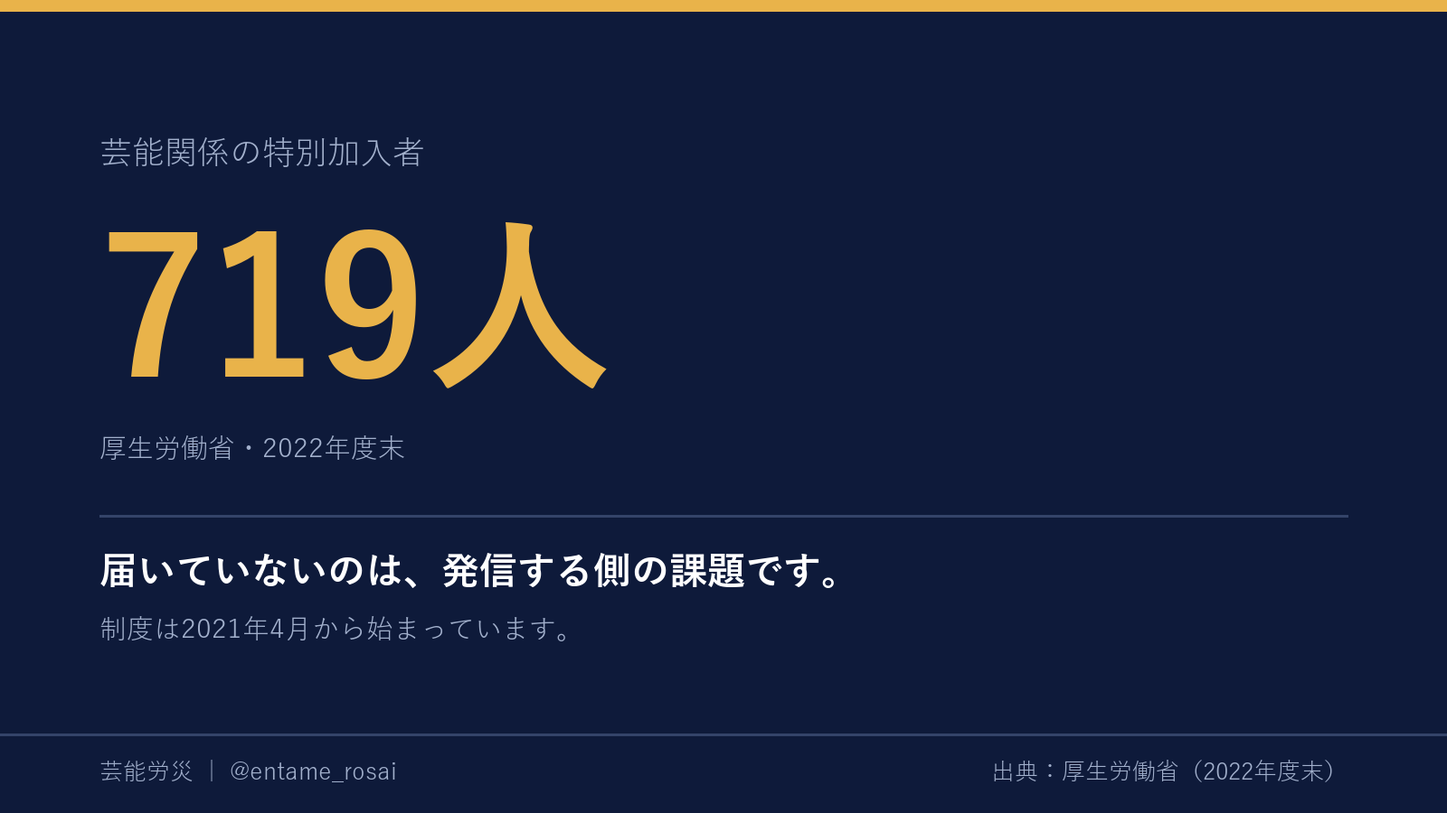
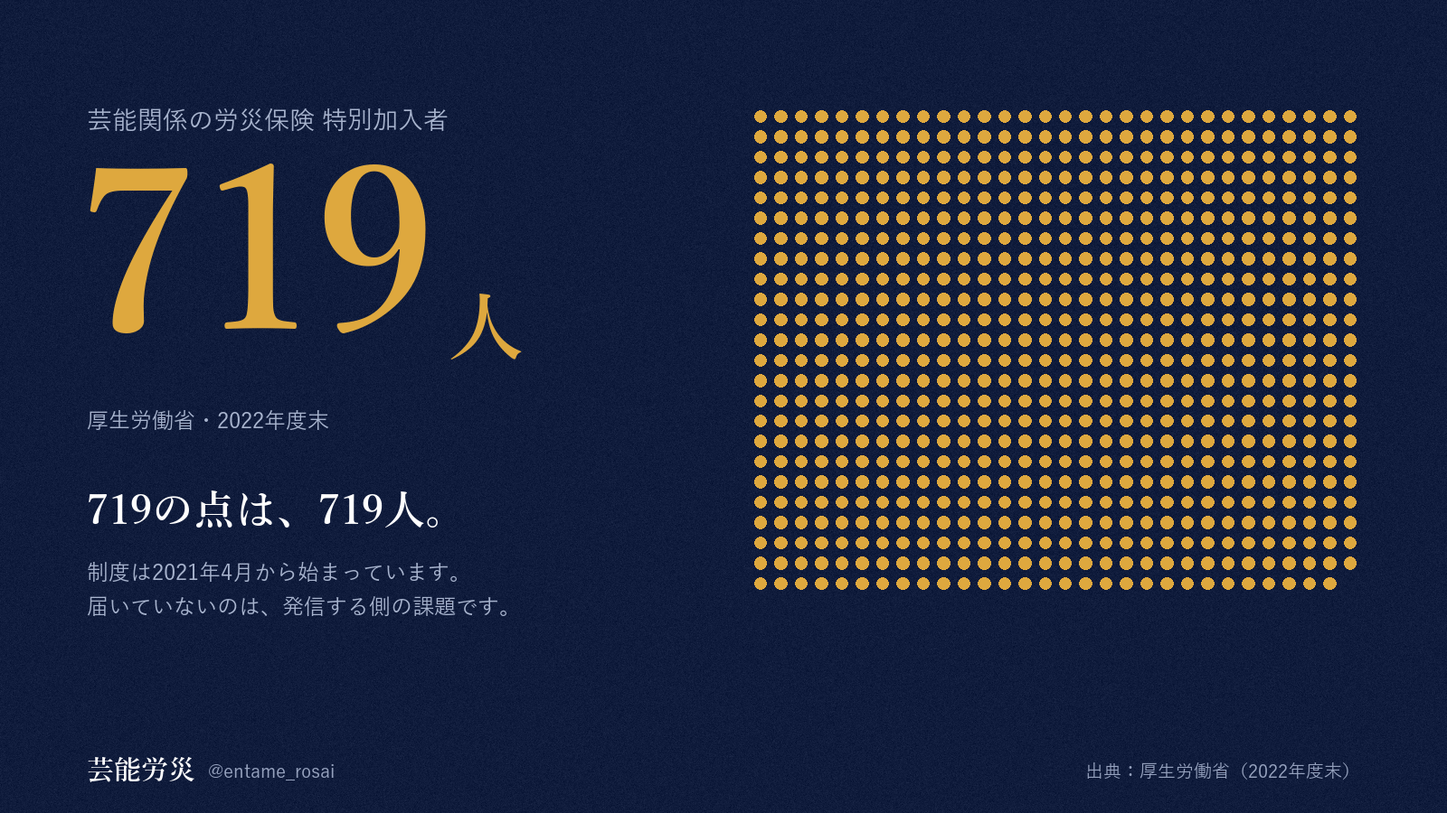
投稿デスク更新 2026-09-28 図解を作り直し（09-28〜10-01）

diff --git a/index.html b/index.html
@@ -230,7 +230,7 @@ footer{margin-top:40px; padding-top:16px; border-top:1px solid var(--line);
 </div>
 <div class="toast" id="toast">コピーしました</div>
 
-<script id="desk-data" type="application/json">{"account":"@entame_rosai","days":[{"date":"2026-10-01","label":"10月1日（木）　投稿予定日","items":[{"key":"x","date":"2026-10-01","label":"X（@entame_rosai）","account":"@entame_rosai","text":"韓国では、芸術人が払う労災保険料の50%を国が還付しています。日本の特別加入では、保険料は本人の負担です。給付の中身が劣っているのではなく、保険料を誰が支えるかに差があります。\n（韓国芸術人福祉財団／労働政策研究・研修機構）","chars":111,"lines":2,"hashtags":0,"limit":140,"status":"（台帳に記載なし）","url":"","images":[{"name":"x_image.png","path":"assets/2026-10-01/x_image/x_image.png"}],"alt":"【入れる順番】画像を添付した直後、本文を打つ前に入れる。\n本文を先に打つと必ず飛ぶ（08-29〜09-04 の6本が全部これで抜けた）。\nX は投稿後に代替テキストを追加できない。ここで入れないと直せない。\n\n--- 以下をコピーして貼る ---\n\n生成りの地の図解。小見出しは「フリーランスの労災保険 ｜ 保険料を誰が支えるか」。見出しは「差が出ているのは、支え方」。左のボックスは「韓国 ｜ 芸術人の労災保険料」として「50%を国が還付」「1等級の新規加入は当初6か月90%支援」。右のボックスは「日本 ｜ 特別加入の保険料」として「本人の負担」「日額10,000円なら月約1,400円」。下に「給付の中身が劣っているのではありません。」。その下に「給付の設計そのものは、日本も整っています。」。最下部に「芸能労災 @entame_rosai」と「出典：韓国芸術人福祉財団／JILPT」。","check":{"errors":[],"warns":[]}}]},{"date":"2026-09-30","label":"9月30日（水）　投稿予定日","items":[{"key":"x","date":"2026-09-30","label":"X（@entame_rosai）","account":"@entame_rosai","text":"厚生労働省の統計では、芸能関係の労災保険の特別加入者は719人です（2022年度末）。制度は2021年からありますが、この数にとどまっています。届いていないのは、発信する側の課題です。\n（厚生労働省・2022年度末）","chars":107,"lines":2,"hashtags":0,"limit":140,"status":"（台帳に記載なし）","url":"","images":[{"name":"x_image.png","path":"assets/2026-09-30/x_image/x_image.png"}],"alt":"【入れる順番】画像を添付した直後、本文を打つ前に入れる。\n本文を先に打つと必ず飛ぶ（08-29〜09-04 の6本が全部これで抜けた）。\nX は投稿後に代替テキストを追加できない。ここで入れないと直せない。\n\n--- 以下をコピーして貼る ---\n\n濃紺の地の図解。中央の数字は「芸能関係の特別加入者」として「719人」「厚生労働省・2022年度末」。下に「届いていないのは、発信する側の課題です。」。その下に「制度は2021年4月から始まっています。」。最下部に「芸能労災 @entame_rosai」と「出典：厚生労働省（2022年度末）」。","check":{"errors":[],"warns":[]}}]},{"date":"2026-09-29","label":"9月29日（火）　投稿予定日","items":[{"key":"x","date":"2026-09-29","label":"X（@entame_rosai）","account":"@entame_rosai","text":"契約に基づく稽古中のけがは、労災の対象になりえます。一方で、契約と結びつかない自主練習は認められない場合があります。ここを「稽古も全部対象」と伝えてきたのは、私たちの側の不正確さでした。\n（労災保険法・特別加入／業務の範囲）","chars":111,"lines":2,"hashtags":0,"limit":140,"status":"（台帳に記載なし）","url":"","images":[{"name":"x_image.png","path":"assets/2026-09-29/x_image/x_image.png"}],"alt":"【入れる順番】画像を添付した直後、本文を打つ前に入れる。\n本文を先に打つと必ず飛ぶ（08-29〜09-04 の6本が全部これで抜けた）。\nX は投稿後に代替テキストを追加できない。ここで入れないと直せない。\n\n--- 以下をコピーして貼る ---\n\n上部に舞台の写真の帯を置いた、生成りの地の図解。小見出しは「フリーランスの労災保険 ｜ 業務の範囲」。見出しは「稽古なら全部、ではない」。左のボックスは「契約に基づく稽古」として「対象になりえる」「業務として行うもの」。右のボックスは「契約と結びつかない自主練習」として「認められない場合」「業務と判断されないため」。下に「範囲を広く伝えてきたのは、発信する側の不正確さです。」。その下に「給付の可否は個別の状況により労働基準監督署が判断します。」。最下部に「芸能労災 @entame_rosai」と「出典：労災保険法・特別加入／業務の範囲」。","check":{"errors":[],"warns":[]}}]},{"date":"2026-09-28","label":"9月28日（月）","items":[{"key":"x","date":"2026-09-28","label":"X（@entame_rosai）","account":"@entame_rosai","text":"2021年4月に芸能従事者が労災保険の特別加入の対象になり、2024年11月からはフリーランス全般に広がりました。対象を狭めるのではなく、広げる方向に制度は動いています。\n（労災保険法・特別加入の対象範囲）","chars":102,"lines":2,"hashtags":0,"limit":140,"status":"生成済・未投稿（09-28 朝の時点でタイムラインの最新は 09-27）","url":"","images":[{"name":"x_image.png","path":"assets/2026-09-28/x_image/x_image.png"}],"alt":"【入れる順番】画像を添付した直後、本文を打つ前に入れる。\n本文を先に打つと必ず飛ぶ（08-29〜09-04 の6本が全部これで抜けた）。\nX は投稿後に代替テキストを追加できない。ここで入れないと直せない。\n\n--- 以下をコピーして貼る ---\n\n濃紺の地の図解。小見出しは「フリーランスの労災保険 ｜ 対象の広がり」。見出しは「広げる方向に、動いている」。左のボックスは「2021年4月」として「芸能従事者」「特別加入の対象に」。右のボックスは「2024年11月」として「フリーランス全般」「特定受託事業者も対象に」。下に「対象を狭めるのではなく、広げる方向の改正です。」。その下に「雇用契約で働く人は、もともと事業主の労災保険の対象です。」。最下部に「芸能労災 @entame_rosai」と「出典：労災保険法・特別加入の対象範囲」。","check":{"errors":[],"warns":[]}}]},{"date":"2026-09-27","label":"9月27日（日）","items":[{"key":"x","date":"2026-09-27","label":"X（@entame_rosai）","account":"@entame_rosai","text":"労災の特別加入は、加入した日より前にさかのぼって入ることはできません。承認された日からの補償になります。これは制度の側の線引きであって、間に合わなかった人の落ち度ではありません。\n（労災保険法・特別加入）","chars":101,"lines":2,"hashtags":0,"limit":140,"status":"投稿済（09-27 21:08）","url":"https://x.com/entame_rosai/status/2104181404808642941","images":[{"name":"x_image.png","path":"assets/2026-09-27/x_image/x_image.png"}],"alt":"【入れる順番】画像を添付した直後、本文を打つ前に入れる。\n本文を先に打つと必ず飛ぶ（08-29〜09-04 の6本が全部これで抜けた）。\nX は投稿後に代替テキストを追加できない。ここで入れないと直せない。\n\n--- 以下をコピーして貼る ---\n\n生成りの地の図解。小見出しは「フリーランスの労災保険 ｜ 補償が始まる日」。見出しは「さかのぼって入る道は、ない」。左のボックスは「加入の承認より前」として「対象外」「さかのぼって加入できない」。右のボックスは「承認された日から」として「補償が始まる」「そこから先が対象になる」。下に「間に合わなかった人の落ち度ではありません。」。その下に「これは制度の側の線引きです。」。最下部に「芸能労災 @entame_rosai」と「出典：労災保険法・特別加入」。","check":{"errors":[],"warns":[]}}]},{"date":"2026-09-26","label":"9月26日（土）","items":[{"key":"x","date":"2026-09-26","label":"X（@entame_rosai）","account":"@entame_rosai","text":"労災の保険給付は非課税です。休業給付を受け取っても、所得として課税されることはありません。一方で支払う保険料は、全額が社会保険料控除の対象になります。\n（労災保険法12条の6・所得税法）","chars":92,"lines":2,"hashtags":0,"limit":140,"status":"投稿済（09-27 に確認）","url":"https://x.com/entame_rosai/status/2103804373449199889","images":[{"name":"x_image.png","path":"assets/2026-09-26/x_image/x_image.png"}],"alt":"【入れる順番】画像を添付した直後、本文を打つ前に入れる。\n本文を先に打つと必ず飛ぶ（08-29〜09-04 の6本が全部これで抜けた）。\nX は投稿後に代替テキストを追加できない。ここで入れないと直せない。\n\n--- 以下をコピーして貼る ---\n\n生成りの地の図解。小見出しは「フリーランスの労災保険 ｜ 税の扱い」。見出しは「受け取る側にも、払う側にも」。左のボックスは「受け取る給付」として「非課税」「所得として課税されない」。右のボックスは「支払う保険料」として「全額控除」「社会保険料控除の対象」。下に「給付には課税されず、保険料は全額が控除の対象です。」。その下に「日額10,000円なら保険料は月約912円、事務手数料込みで月約1,400円。」。最下部に「芸能労災 @entame_rosai」と「出典：労災保険法12条の6・所得税法」。","check":{"errors":[],"warns":[]}}]},{"date":"2026-09-25","label":"9月25日（金）","items":[{"key":"x","date":"2026-09-25","label":"X（@entame_rosai）","account":"@entame_rosai","text":"労災の障害（補償）給付と遺族（補償）給付は、重い等級では一時金ではなく年金です。まとまった額を一度受け取って終わりではなく、その後の生活に合わせて継続して支払われる設計になっています。\n（労災保険法・障害補償給付／遺族補償給付）","chars":113,"lines":2,"hashtags":0,"limit":140,"status":"投稿済（09-27 に Chrome でタイムラインを読んで確認）","url":"https://x.com/entame_rosai/status/2103416545565376527","images":[{"name":"x_image.png","path":"assets/2026-09-25/x_image/x_image.png"}],"alt":"【入れる順番】画像を添付した直後、本文を打つ前に入れる。\n本文を先に打つと必ず飛ぶ（08-29〜09-04 の6本が全部これで抜けた）。\nX は投稿後に代替テキストを追加できない。ここで入れないと直せない。\n\n--- 以下をコピーして貼る ---\n\n濃紺の地の図解。小見出しは「フリーランスの労災保険 ｜ 受け取り方」。見出しは「一度きりでは、終わらない」。左のボックスは「障害（補償）給付」として「年金」「重い等級の場合」。右のボックスは「遺族（補償）給付」として「年金」「受給資格者がいる場合」。下に「その後の生活に合わせて、継続して支払われます。」。その下に「給付の可否・等級は個別の状況により労働基準監督署が判断します。」。最下部に「芸能労災 @entame_rosai」と「出典：労災保険法・障害補償給付／遺族補償給付」。","check":{"errors":[],"warns":[]}}]},{"date":"2026-09-24","label":"9月24日（木）","items":[{"key":"x","date":"2026-09-24","label":"X（@entame_rosai）","account":"@entame_rosai","text":"労災保険の給付は7種類あります。療養、休業、傷病年金、障害、介護、遺族、葬祭料。けがの治療費だけの制度ではなく、治ったあとに障害が残った場合や、家族への給付までが一続きで用意されています。\n（労災保険法・保険給付）","chars":106,"lines":2,"hashtags":0,"limit":140,"status":"投稿済（09-24 14:18・表示19→28）","url":"https://x.com/entame_rosai/status/2102990945784631429","images":[{"name":"x_image.png","path":"assets/2026-09-24/x_image/x_image.png"}],"alt":"【入れる順番】画像を添付した直後、本文を打つ前に入れる。\n本文を先に打つと必ず飛ぶ（08-29〜09-04 の6本が全部これで抜けた）。\nX は投稿後に代替テキストを追加できない。ここで入れないと直せない。\n\n--- 以下をコピーして貼る ---\n\n左に舞台の写真、右に一覧を置いた、生成りの地の図解。小見出しは「フリーランスの労災保険 ｜ 給付の種類」。見出しは「治療費だけの制度では、ない」。箇条書きは「療養」「休業」「傷病年金」「障害」「介護」「遺族」「葬祭料」。下に「治ったあとに障害が残った場合や、家族への給付までが一続きです。」。最下部に「芸能労災 @entame_rosai」と「出典：労災保険法・保険給付」。","check":{"errors":[],"warns":[]}}]},{"date":"2026-09-23","label":"9月23日（水）","items":[{"key":"x","date":"2026-09-23","label":"X（@entame_rosai）","account":"@entame_rosai","text":"労災の療養（補償）給付には、治療費の上限も、受けられる期間の上限もありません。治るまで、または症状が固定するまで続きます。労災指定医療機関にかかれば、窓口で払う金額は原則0円です。\n（労災保険法・療養補償給付）","chars":104,"lines":2,"hashtags":0,"limit":140,"status":"投稿済（09-23・09-24 に Chrome でタイムラインを読んで確認）","url":"https://x.com/entame_rosai/status/2102571272802889776","images":[{"name":"x_image.png","path":"assets/2026-09-23/x_image/x_image.png"}],"alt":"【入れる順番】画像を添付した直後、本文を打つ前に入れる。\n本文を先に打つと必ず飛ぶ（08-29〜09-04 の6本が全部これで抜けた）。\nX は投稿後に代替テキストを追加できない。ここで入れないと直せない。\n\n--- 以下をコピーして貼る ---\n\n濃紺の地の図解。小見出しは「フリーランスの労災保険 ｜ 治療にかかるお金」。見出しは「治るまでの上限が、ない」。箇条書きは「金額の上限なし」「期間の上限なし」「指定医療機関なら窓口0円」「症状固定まで継続」。下に「健康保険なら3割の窓口負担。労災なら原則0円です。」。その下に「給付の可否は個別の状況により労働基準監督署が判断します。」。最下部に「芸能労災 @entame_rosai」と「出典：労災保険法・療養補償給付」。","check":{"errors":[],"warns":[]}},{"key":"reply1","date":"2026-09-23","label":"X 返信・@masamune_action（@entame_rosai）","account":"@entame_rosai","text":"千秋楽、お疲れさまでした。公演ごとに終演の報告を上げておられたのを、こちらも一公演ずつたどるように読んでいました。次の現場も楽しみにしています","chars":71,"lines":1,"hashtags":0,"limit":140,"status":"（返信。台帳は「X（返信）」の行）","url":"","replyTo":"https://x.com/masamune_action/status/2101595570330849725","images":[],"alt":"","check":{"errors":[],"warns":[]}}]},{"date":"2026-09-22","label":"9月22日（火）","items":[{"key":"x","date":"2026-09-22","label":"X（@entame_rosai）","account":"@entame_rosai","text":"労災の特別加入では、給付基礎日額を3,500円から25,000円の16段階から自分で選びます。休業給付はこの日額をもとに計算されます。収入が月ごとに大きく動く仕事でも、補償の水準を自分で決められる設計です。\n（労災保険法・特別加入／給付基礎日額）","chars":122,"lines":2,"hashtags":0,"limit":140,"status":"投稿済（09-22 18:12・09-23 に Chrome でタイムラインを機械読み取りして確認）","url":"https://x.com/entame_rosai/status/2102325045301567500","images":[{"name":"x_image.png","path":"assets/2026-09-22/x_image/x_image.png"}],"alt":"【入れる順番】画像を添付した直後、本文を打つ前に入れる。\n本文を先に打つと必ず飛ぶ（08-29〜09-04 の6本が全部これで抜けた）。\nX は投稿後に代替テキストを追加できない。ここで入れないと直せない。\n\n--- 以下をコピーして貼る ---\n\n濃紺の地の図解。小見出しは「フリーランスの労災保険 ｜ 金額の決まり方」、見出しは「補償の土台は、自分で選ぶ」。左のボックスは「給付基礎日額」として「3,500〜25,000円」「16段階から自分で選ぶ」。右のボックスは「休業給付」として「日額の80%」「給付60%＋特別支給金20%」。下に「休業給付は4日目から。業務にまったく従事できない日が対象。」「原則1年6か月まで。日額10,000円なら保険料は月約912円、事務手数料込みで月約1,400円。」。最下部に「芸能労災 @entame_rosai」と「出典：労災保険法・特別加入／給付基礎日額」。","check":{"errors":[],"warns":[]}},{"key":"yabe","date":"2026-09-22","label":"X（@yabemasaru23）","account":"@yabemasaru23","text":"フリーランスの仕事は、来月いくらになるか読めません。私も長くそうでした。\n\n労災の特別加入は、補償の土台になる日額を、実収入と切り離して自分で選ぶ仕組みです。\n\n読めない収入に合わせなくていい設計なのだと知ったのは、広める側に回ってからでした。","chars":118,"lines":5,"hashtags":0,"limit":0,"status":"生成済・未投稿","url":"","images":[],"alt":"","check":{"errors":[],"warns":[]}}]},{"date":"2026-09-21","label":"9月21日（月）","items":[{"key":"x","date":"2026-09-21","label":"X（@entame_rosai）","account":"@entame_rosai","text":"労災の特別加入で、芸能関係作業従事者の保険料率は一律0.3%です。スタントでも高所の作業でも、率は同じ。危険な仕事だからという理由で保険料が上がることも、加入を審査で断られることもありません。\n（労災保険法・特別加入保険料率）","chars":112,"lines":2,"hashtags":0,"limit":140,"status":"投稿済（09-21 14:21・09-23 に Chrome でタイムラインを機械読み取りして確認）","url":"https://x.com/entame_rosai/status/2101904546138309005","images":[{"name":"x_image.png","path":"assets/2026-09-21/x_image/x_image.png"}],"alt":"【入れる順番】画像を添付した直後、本文を打つ前に入れる。\n本文を先に打つと必ず飛ぶ（08-29〜09-04 の6本が全部これで抜けた）。\nX は投稿後に代替テキストを追加できない。ここで入れないと直せない。\n\n--- 以下をコピーして貼る ---\n\n生成りの地の図解。小見出しは「フリーランスの労災保険 ｜ 入口のつくり」、見出しは「危険な仕事でも、率は変わらない」。左のボックスは「芸能関係作業従事者の保険料率」として「一律 0.3%」「スタントでも高所作業でも同じ」。右のボックスは「加入のとき」として「審査なし」「年齢・持病・職種で断られない」。下に「危険な仕事だからという理由で、保険料が上がることはありません。」「給付基礎日額10,000円なら保険料は月約912円。事務手数料月500円を含めて月約1,400円。」。最下部に「芸能労災 @entame_rosai」と「出典：労災保険法・特別加入保険料率」。","check":{"errors":[],"warns":["競合の調査由来かもしれない数字/語: 0.3%　… 労災の特別加入で、芸能関係作業従事者の保険料率は一律0.3%です。スタントでも高所の作業でも、率は同じ。危険な仕事だ…"]}},{"key":"reply1","date":"2026-09-21","label":"X 返信・@masamune_action（@entame_rosai）","account":"@entame_rosai","text":"千秋楽、お疲れさまでした。公演ごとに終演の報告を上げておられたのを、こちらも一公演ずつたどるように読んでいました。次の現場も楽しみにしています","chars":71,"lines":1,"hashtags":0,"limit":140,"status":"（返信。台帳は「X（返信）」の行）","url":"","replyTo":"https://x.com/masamune_action/status/2101595570330849725","images":[],"alt":"","check":{"errors":[],"warns":[]}}]},{"date":"2026-09-20","label":"9月20日（日）","items":[{"key":"x","date":"2026-09-20","label":"X（@entame_rosai）","account":"@entame_rosai","text":"労災の特別加入は、カメラの前に立つ人だけの制度ではありません。照明、音響、大道具、舞台監督。芸能の製作にかかわる仕事も、対象の区分に含まれています。実演家の話としてだけ伝えてきたのは、私たちの側の狭さです。\n（労災保険法・特別加入／芸能関係作業従事者）","chars":125,"lines":2,"hashtags":0,"limit":140,"status":"投稿済（09-20 18:35）","url":"https://x.com/entame_rosai/status/2101606094988861586","images":[{"name":"x_image.png","path":"assets/2026-09-20/x_image/x_image.png"}],"alt":"【入れる順番】画像を添付した直後、本文を打つ前に入れる。\n本文を先に打つと必ず飛ぶ（08-29〜09-04 の6本が全部これで抜けた）。\nX は投稿後に代替テキストを追加できない。ここで入れないと直せない。\n\n--- 以下をコピーして貼る ---\n\n濃紺の地の図解。小見出しは「フリーランスの労災保険 ｜ 誰が対象の区分に入るか」、見出しは「カメラの前に立つ人だけの制度ではない」。左側に職種が縦に並んでいる。上から「俳優・ダンサー」「スタント・アクション」「音楽家」「照明」「音響」「大道具・美術」「舞台監督・演出部」。右側に「芸能の製作にかかわる仕事も、対象の区分に含まれています。」、その下に「実演家の話としてだけ伝えてきたのは、私たちの側の狭さです。」。最下部に「芸能労災 @entame_rosai」と「出典：労災保険法・特別加入／芸能関係作業従事者」。","check":{"errors":[],"warns":[]}}]},{"date":"2026-09-19","label":"9月19日（土）","items":[{"key":"x","date":"2026-09-19","label":"X（@entame_rosai）","account":"@entame_rosai","text":"通勤中のけがも労災の対象です。ただし、行き帰りの全部が覆われるわけではありません。合理的な経路を外れて寄り道している間は対象から外れます。私たちの側も、そこを広く書いてしまっていた時期がありました。\n（労災保険法7条・通勤災害）","chars":113,"lines":2,"hashtags":0,"limit":140,"status":"投稿済（09-19 夜・09-20 のタイムラインで確認。投稿から21時間）","url":"https://x.com/entame_rosai/status/2101149176054837349","images":[{"name":"x_image.png","path":"assets/2026-09-19/x_image/x_image.png"}],"alt":"【入れる順番】画像を添付した直後、本文を打つ前に入れる。\n本文を先に打つと必ず飛ぶ（08-29〜09-04 の6本が全部これで抜けた）。\nX は投稿後に代替テキストを追加できない。ここで入れないと直せない。\n\n--- 以下をコピーして貼る ---\n\n上半分は無人のホールの客席とパイプオルガンの写真。下半分は生成りの地の図解。小見出しは「フリーランスの労災保険 ｜ 通勤災害の範囲」、見出しは「行き帰りの、どこまでが対象か」。左のボックスは「対象になる」として「合理的な経路」「仕事のための行き帰り」。右のボックスは「対象から外れる」として「逸脱・中断の間」「経路を外れている時間」。下に「行き帰りのすべてが覆われるわけではありません。」「私たちの側も、そこを広く書いてしまっていた時期がありました。」。最下部に「芸能労災 @entame_rosai」と「出典：労災保険法7条（通勤災害）」。","check":{"errors":[],"warns":[]}}]}],"builtAt":"2026-09-28 06:54","endpoint":"https://script.google.com/macros/s/AKfycbxhxM75PszpPOX_HDJ4yuBmQSqu1b7CXq2sbCxlqTZ_TyF8hROH2MyKnYNU11avb8UQCA/exec"}</script>
+<script id="desk-data" type="application/json">{"account":"@entame_rosai","days":[{"date":"2026-10-01","label":"10月1日（木）　投稿予定日","items":[{"key":"x","date":"2026-10-01","label":"X（@entame_rosai）","account":"@entame_rosai","text":"韓国では、芸術人が払う労災保険料の50%を国が還付しています。日本の特別加入では、保険料は本人の負担です。給付の中身が劣っているのではなく、保険料を誰が支えるかに差があります。\n（韓国芸術人福祉財団／労働政策研究・研修機構）","chars":111,"lines":2,"hashtags":0,"limit":140,"status":"（台帳に記載なし）","url":"","images":[{"name":"x_image.png","path":"assets/2026-10-01/x_image/x_image.png"}],"alt":"【入れる順番】画像を添付した直後、本文を打つ前に入れる。\n本文を先に打つと必ず飛ぶ（08-29〜09-04 の6本が全部これで抜けた）。\nX は投稿後に代替テキストを追加できない。ここで入れないと直せない。\n\n--- 以下をコピーして貼る ---\n\n白い地の帯グラフ。見出しは明朝体で「誰が、保険料を支えているか。」。1本目の帯は韓国・芸術人の労災保険料で、左半分が濃紺「本人 50%」、右半分が金色「国が還付 50%」。帯の下に「1等級の新規加入者は、最初の6か月は90%を支援」。2本目の帯は日本・労災保険の特別加入で、全体が濃紺「本人 100%」。帯の下に「給付基礎日額10,000円なら、事務手数料込みで月約1,400円」。その下に「給付の中身が劣っているのではありません。差があるのは、保険料の支え方です。」。最下部に「芸能労災 @entame_rosai」と「出典：韓国芸術人福祉財団／労働政策研究・研修機構」。","check":{"errors":[],"warns":[]}}]},{"date":"2026-09-30","label":"9月30日（水）　投稿予定日","items":[{"key":"x","date":"2026-09-30","label":"X（@entame_rosai）","account":"@entame_rosai","text":"厚生労働省の統計では、芸能関係の労災保険の特別加入者は719人です（2022年度末）。制度は2021年からありますが、この数にとどまっています。届いていないのは、発信する側の課題です。\n（厚生労働省・2022年度末）","chars":107,"lines":2,"hashtags":0,"limit":140,"status":"（台帳に記載なし）","url":"","images":[{"name":"x_image.png","path":"assets/2026-09-30/x_image/x_image.png"}],"alt":"【入れる順番】画像を添付した直後、本文を打つ前に入れる。\n本文を先に打つと必ず飛ぶ（08-29〜09-04 の6本が全部これで抜けた）。\nX は投稿後に代替テキストを追加できない。ここで入れないと直せない。\n\n--- 以下をコピーして貼る ---\n\n濃紺の地の図解。左に「芸能関係の労災保険 特別加入者」、金色の大きな数字で「719人」、その下に「厚生労働省・2022年度末」。続けて「719の点は、719人。」「制度は2021年4月から始まっています。届いていないのは、発信する側の課題です。」。右側に金色の点が719個、30列の格子状に並び、最後の行だけが途中で終わっている。最下部に「芸能労災 @entame_rosai」と「出典：厚生労働省（2022年度末）」。","check":{"errors":[],"warns":[]}}]},{"date":"2026-09-29","label":"9月29日（火）　投稿予定日","items":[{"key":"x","date":"2026-09-29","label":"X（@entame_rosai）","account":"@entame_rosai","text":"契約に基づく稽古中のけがは、労災の対象になりえます。一方で、契約と結びつかない自主練習は認められない場合があります。ここを「稽古も全部対象」と伝えてきたのは、私たちの側の不正確さでした。\n（労災保険法・特別加入／業務の範囲）","chars":111,"lines":2,"hashtags":0,"limit":140,"status":"（台帳に記載なし）","url":"","images":[{"name":"x_image.png","path":"assets/2026-09-29/x_image/x_image.png"}],"alt":"【入れる順番】画像を添付した直後、本文を打つ前に入れる。\n本文を先に打つと必ず飛ぶ（08-29〜09-04 の6本が全部これで抜けた）。\nX は投稿後に代替テキストを追加できない。ここで入れないと直せない。\n\n--- 以下をコピーして貼る ---\n\n暗い舞台の床の図解。上部に明朝体の見出し「稽古なら全部、ではない。」。中央に黄色いバミリテープが縦に貼られ、床を左右に分けている。照明が当たっている左側に「契約に基づく稽古　対象になりえる」。暗い右側に「契約と結びつかない自主練習　認められない場合がある」。左下に「『稽古も全部対象』と伝えてきたのは、私たちの側の不正確さでした。給付の可否は、個別の状況により労働基準監督署が判断します。」。最下部に「芸能労災 @entame_rosai」と「出典：労災保険法・特別加入／業務の範囲」。","check":{"errors":[],"warns":[]}}]},{"date":"2026-09-28","label":"9月28日（月）","items":[{"key":"x","date":"2026-09-28","label":"X（@entame_rosai）","account":"@entame_rosai","text":"2021年4月に芸能従事者が労災保険の特別加入の対象になり、2024年11月からはフリーランス全般に広がりました。対象を狭めるのではなく、広げる方向に制度は動いています。\n（労災保険法・特別加入の対象範囲）","chars":102,"lines":2,"hashtags":0,"limit":140,"status":"生成済・未投稿（09-28 朝の時点でタイムラインの最新は 09-27）","url":"","images":[{"name":"x_image.png","path":"assets/2026-09-28/x_image/x_image.png"}],"alt":"【入れる順番】画像を添付した直後、本文を打つ前に入れる。\n本文を先に打つと必ず飛ぶ（08-29〜09-04 の6本が全部これで抜けた）。\nX は投稿後に代替テキストを追加できない。ここで入れないと直せない。\n\n--- 以下をコピーして貼る ---\n\n生成りの地の図解。左に明朝体の見出し「制度は、広がる方向へ。」、その下に「雇用契約で働く人は、もともと事業主の労災保険の対象です。」。右に濃紺の大きな円があり、上部に「2024年11月 フリーランス全般」。その円の内側の下寄りに金色の小さな円があり「2021年4月 芸能従事者」。小さな円が大きな円に含まれる入れ子の図。左下に「芸能労災 @entame_rosai」、右下に「出典：労災保険法・特別加入の対象範囲」。","check":{"errors":[],"warns":[]}}]},{"date":"2026-09-27","label":"9月27日（日）","items":[{"key":"x","date":"2026-09-27","label":"X（@entame_rosai）","account":"@entame_rosai","text":"労災の特別加入は、加入した日より前にさかのぼって入ることはできません。承認された日からの補償になります。これは制度の側の線引きであって、間に合わなかった人の落ち度ではありません。\n（労災保険法・特別加入）","chars":101,"lines":2,"hashtags":0,"limit":140,"status":"投稿済（09-27 21:08）","url":"https://x.com/entame_rosai/status/2104181404808642941","images":[{"name":"x_image.png","path":"assets/2026-09-27/x_image/x_image.png"}],"alt":"【入れる順番】画像を添付した直後、本文を打つ前に入れる。\n本文を先に打つと必ず飛ぶ（08-29〜09-04 の6本が全部これで抜けた）。\nX は投稿後に代替テキストを追加できない。ここで入れないと直せない。\n\n--- 以下をコピーして貼る ---\n\n生成りの地の図解。小見出しは「フリーランスの労災保険 ｜ 補償が始まる日」。見出しは「さかのぼって入る道は、ない」。左のボックスは「加入の承認より前」として「対象外」「さかのぼって加入できない」。右のボックスは「承認された日から」として「補償が始まる」「そこから先が対象になる」。下に「間に合わなかった人の落ち度ではありません。」。その下に「これは制度の側の線引きです。」。最下部に「芸能労災 @entame_rosai」と「出典：労災保険法・特別加入」。","check":{"errors":[],"warns":[]}}]},{"date":"2026-09-26","label":"9月26日（土）","items":[{"key":"x","date":"2026-09-26","label":"X（@entame_rosai）","account":"@entame_rosai","text":"労災の保険給付は非課税です。休業給付を受け取っても、所得として課税されることはありません。一方で支払う保険料は、全額が社会保険料控除の対象になります。\n（労災保険法12条の6・所得税法）","chars":92,"lines":2,"hashtags":0,"limit":140,"status":"投稿済（09-27 に確認）","url":"https://x.com/entame_rosai/status/2103804373449199889","images":[{"name":"x_image.png","path":"assets/2026-09-26/x_image/x_image.png"}],"alt":"【入れる順番】画像を添付した直後、本文を打つ前に入れる。\n本文を先に打つと必ず飛ぶ（08-29〜09-04 の6本が全部これで抜けた）。\nX は投稿後に代替テキストを追加できない。ここで入れないと直せない。\n\n--- 以下をコピーして貼る ---\n\n生成りの地の図解。小見出しは「フリーランスの労災保険 ｜ 税の扱い」。見出しは「受け取る側にも、払う側にも」。左のボックスは「受け取る給付」として「非課税」「所得として課税されない」。右のボックスは「支払う保険料」として「全額控除」「社会保険料控除の対象」。下に「給付には課税されず、保険料は全額が控除の対象です。」。その下に「日額10,000円なら保険料は月約912円、事務手数料込みで月約1,400円。」。最下部に「芸能労災 @entame_rosai」と「出典：労災保険法12条の6・所得税法」。","check":{"errors":[],"warns":[]}}]},{"date":"2026-09-25","label":"9月25日（金）","items":[{"key":"x","date":"2026-09-25","label":"X（@entame_rosai）","account":"@entame_rosai","text":"労災の障害（補償）給付と遺族（補償）給付は、重い等級では一時金ではなく年金です。まとまった額を一度受け取って終わりではなく、その後の生活に合わせて継続して支払われる設計になっています。\n（労災保険法・障害補償給付／遺族補償給付）","chars":113,"lines":2,"hashtags":0,"limit":140,"status":"投稿済（09-27 に Chrome でタイムラインを読んで確認）","url":"https://x.com/entame_rosai/status/2103416545565376527","images":[{"name":"x_image.png","path":"assets/2026-09-25/x_image/x_image.png"}],"alt":"【入れる順番】画像を添付した直後、本文を打つ前に入れる。\n本文を先に打つと必ず飛ぶ（08-29〜09-04 の6本が全部これで抜けた）。\nX は投稿後に代替テキストを追加できない。ここで入れないと直せない。\n\n--- 以下をコピーして貼る ---\n\n濃紺の地の図解。小見出しは「フリーランスの労災保険 ｜ 受け取り方」。見出しは「一度きりでは、終わらない」。左のボックスは「障害（補償）給付」として「年金」「重い等級の場合」。右のボックスは「遺族（補償）給付」として「年金」「受給資格者がいる場合」。下に「その後の生活に合わせて、継続して支払われます。」。その下に「給付の可否・等級は個別の状況により労働基準監督署が判断します。」。最下部に「芸能労災 @entame_rosai」と「出典：労災保険法・障害補償給付／遺族補償給付」。","check":{"errors":[],"warns":[]}}]},{"date":"2026-09-24","label":"9月24日（木）","items":[{"key":"x","date":"2026-09-24","label":"X（@entame_rosai）","account":"@entame_rosai","text":"労災保険の給付は7種類あります。療養、休業、傷病年金、障害、介護、遺族、葬祭料。けがの治療費だけの制度ではなく、治ったあとに障害が残った場合や、家族への給付までが一続きで用意されています。\n（労災保険法・保険給付）","chars":106,"lines":2,"hashtags":0,"limit":140,"status":"投稿済（09-24 14:18・表示19→28）","url":"https://x.com/entame_rosai/status/2102990945784631429","images":[{"name":"x_image.png","path":"assets/2026-09-24/x_image/x_image.png"}],"alt":"【入れる順番】画像を添付した直後、本文を打つ前に入れる。\n本文を先に打つと必ず飛ぶ（08-29〜09-04 の6本が全部これで抜けた）。\nX は投稿後に代替テキストを追加できない。ここで入れないと直せない。\n\n--- 以下をコピーして貼る ---\n\n左に舞台の写真、右に一覧を置いた、生成りの地の図解。小見出しは「フリーランスの労災保険 ｜ 給付の種類」。見出しは「治療費だけの制度では、ない」。箇条書きは「療養」「休業」「傷病年金」「障害」「介護」「遺族」「葬祭料」。下に「治ったあとに障害が残った場合や、家族への給付までが一続きです。」。最下部に「芸能労災 @entame_rosai」と「出典：労災保険法・保険給付」。","check":{"errors":[],"warns":[]}}]},{"date":"2026-09-23","label":"9月23日（水）","items":[{"key":"x","date":"2026-09-23","label":"X（@entame_rosai）","account":"@entame_rosai","text":"労災の療養（補償）給付には、治療費の上限も、受けられる期間の上限もありません。治るまで、または症状が固定するまで続きます。労災指定医療機関にかかれば、窓口で払う金額は原則0円です。\n（労災保険法・療養補償給付）","chars":104,"lines":2,"hashtags":0,"limit":140,"status":"投稿済（09-23・09-24 に Chrome でタイムラインを読んで確認）","url":"https://x.com/entame_rosai/status/2102571272802889776","images":[{"name":"x_image.png","path":"assets/2026-09-23/x_image/x_image.png"}],"alt":"【入れる順番】画像を添付した直後、本文を打つ前に入れる。\n本文を先に打つと必ず飛ぶ（08-29〜09-04 の6本が全部これで抜けた）。\nX は投稿後に代替テキストを追加できない。ここで入れないと直せない。\n\n--- 以下をコピーして貼る ---\n\n濃紺の地の図解。小見出しは「フリーランスの労災保険 ｜ 治療にかかるお金」。見出しは「治るまでの上限が、ない」。箇条書きは「金額の上限なし」「期間の上限なし」「指定医療機関なら窓口0円」「症状固定まで継続」。下に「健康保険なら3割の窓口負担。労災なら原則0円です。」。その下に「給付の可否は個別の状況により労働基準監督署が判断します。」。最下部に「芸能労災 @entame_rosai」と「出典：労災保険法・療養補償給付」。","check":{"errors":[],"warns":[]}},{"key":"reply1","date":"2026-09-23","label":"X 返信・@masamune_action（@entame_rosai）","account":"@entame_rosai","text":"千秋楽、お疲れさまでした。公演ごとに終演の報告を上げておられたのを、こちらも一公演ずつたどるように読んでいました。次の現場も楽しみにしています","chars":71,"lines":1,"hashtags":0,"limit":140,"status":"（返信。台帳は「X（返信）」の行）","url":"","replyTo":"https://x.com/masamune_action/status/2101595570330849725","images":[],"alt":"","check":{"errors":[],"warns":[]}}]},{"date":"2026-09-22","label":"9月22日（火）","items":[{"key":"x","date":"2026-09-22","label":"X（@entame_rosai）","account":"@entame_rosai","text":"労災の特別加入では、給付基礎日額を3,500円から25,000円の16段階から自分で選びます。休業給付はこの日額をもとに計算されます。収入が月ごとに大きく動く仕事でも、補償の水準を自分で決められる設計です。\n（労災保険法・特別加入／給付基礎日額）","chars":122,"lines":2,"hashtags":0,"limit":140,"status":"投稿済（09-22 18:12・09-23 に Chrome でタイムラインを機械読み取りして確認）","url":"https://x.com/entame_rosai/status/2102325045301567500","images":[{"name":"x_image.png","path":"assets/2026-09-22/x_image/x_image.png"}],"alt":"【入れる順番】画像を添付した直後、本文を打つ前に入れる。\n本文を先に打つと必ず飛ぶ（08-29〜09-04 の6本が全部これで抜けた）。\nX は投稿後に代替テキストを追加できない。ここで入れないと直せない。\n\n--- 以下をコピーして貼る ---\n\n濃紺の地の図解。小見出しは「フリーランスの労災保険 ｜ 金額の決まり方」、見出しは「補償の土台は、自分で選ぶ」。左のボックスは「給付基礎日額」として「3,500〜25,000円」「16段階から自分で選ぶ」。右のボックスは「休業給付」として「日額の80%」「給付60%＋特別支給金20%」。下に「休業給付は4日目から。業務にまったく従事できない日が対象。」「原則1年6か月まで。日額10,000円なら保険料は月約912円、事務手数料込みで月約1,400円。」。最下部に「芸能労災 @entame_rosai」と「出典：労災保険法・特別加入／給付基礎日額」。","check":{"errors":[],"warns":[]}},{"key":"yabe","date":"2026-09-22","label":"X（@yabemasaru23）","account":"@yabemasaru23","text":"フリーランスの仕事は、来月いくらになるか読めません。私も長くそうでした。\n\n労災の特別加入は、補償の土台になる日額を、実収入と切り離して自分で選ぶ仕組みです。\n\n読めない収入に合わせなくていい設計なのだと知ったのは、広める側に回ってからでした。","chars":118,"lines":5,"hashtags":0,"limit":0,"status":"生成済・未投稿","url":"","images":[],"alt":"","check":{"errors":[],"warns":[]}}]},{"date":"2026-09-21","label":"9月21日（月）","items":[{"key":"x","date":"2026-09-21","label":"X（@entame_rosai）","account":"@entame_rosai","text":"労災の特別加入で、芸能関係作業従事者の保険料率は一律0.3%です。スタントでも高所の作業でも、率は同じ。危険な仕事だからという理由で保険料が上がることも、加入を審査で断られることもありません。\n（労災保険法・特別加入保険料率）","chars":112,"lines":2,"hashtags":0,"limit":140,"status":"投稿済（09-21 14:21・09-23 に Chrome でタイムラインを機械読み取りして確認）","url":"https://x.com/entame_rosai/status/2101904546138309005","images":[{"name":"x_image.png","path":"assets/2026-09-21/x_image/x_image.png"}],"alt":"【入れる順番】画像を添付した直後、本文を打つ前に入れる。\n本文を先に打つと必ず飛ぶ（08-29〜09-04 の6本が全部これで抜けた）。\nX は投稿後に代替テキストを追加できない。ここで入れないと直せない。\n\n--- 以下をコピーして貼る ---\n\n生成りの地の図解。小見出しは「フリーランスの労災保険 ｜ 入口のつくり」、見出しは「危険な仕事でも、率は変わらない」。左のボックスは「芸能関係作業従事者の保険料率」として「一律 0.3%」「スタントでも高所作業でも同じ」。右のボックスは「加入のとき」として「審査なし」「年齢・持病・職種で断られない」。下に「危険な仕事だからという理由で、保険料が上がることはありません。」「給付基礎日額10,000円なら保険料は月約912円。事務手数料月500円を含めて月約1,400円。」。最下部に「芸能労災 @entame_rosai」と「出典：労災保険法・特別加入保険料率」。","check":{"errors":[],"warns":["競合の調査由来かもしれない数字/語: 0.3%　… 労災の特別加入で、芸能関係作業従事者の保険料率は一律0.3%です。スタントでも高所の作業でも、率は同じ。危険な仕事だ…"]}},{"key":"reply1","date":"2026-09-21","label":"X 返信・@masamune_action（@entame_rosai）","account":"@entame_rosai","text":"千秋楽、お疲れさまでした。公演ごとに終演の報告を上げておられたのを、こちらも一公演ずつたどるように読んでいました。次の現場も楽しみにしています","chars":71,"lines":1,"hashtags":0,"limit":140,"status":"（返信。台帳は「X（返信）」の行）","url":"","replyTo":"https://x.com/masamune_action/status/2101595570330849725","images":[],"alt":"","check":{"errors":[],"warns":[]}}]},{"date":"2026-09-20","label":"9月20日（日）","items":[{"key":"x","date":"2026-09-20","label":"X（@entame_rosai）","account":"@entame_rosai","text":"労災の特別加入は、カメラの前に立つ人だけの制度ではありません。照明、音響、大道具、舞台監督。芸能の製作にかかわる仕事も、対象の区分に含まれています。実演家の話としてだけ伝えてきたのは、私たちの側の狭さです。\n（労災保険法・特別加入／芸能関係作業従事者）","chars":125,"lines":2,"hashtags":0,"limit":140,"status":"投稿済（09-20 18:35）","url":"https://x.com/entame_rosai/status/2101606094988861586","images":[{"name":"x_image.png","path":"assets/2026-09-20/x_image/x_image.png"}],"alt":"【入れる順番】画像を添付した直後、本文を打つ前に入れる。\n本文を先に打つと必ず飛ぶ（08-29〜09-04 の6本が全部これで抜けた）。\nX は投稿後に代替テキストを追加できない。ここで入れないと直せない。\n\n--- 以下をコピーして貼る ---\n\n濃紺の地の図解。小見出しは「フリーランスの労災保険 ｜ 誰が対象の区分に入るか」、見出しは「カメラの前に立つ人だけの制度ではない」。左側に職種が縦に並んでいる。上から「俳優・ダンサー」「スタント・アクション」「音楽家」「照明」「音響」「大道具・美術」「舞台監督・演出部」。右側に「芸能の製作にかかわる仕事も、対象の区分に含まれています。」、その下に「実演家の話としてだけ伝えてきたのは、私たちの側の狭さです。」。最下部に「芸能労災 @entame_rosai」と「出典：労災保険法・特別加入／芸能関係作業従事者」。","check":{"errors":[],"warns":[]}}]},{"date":"2026-09-19","label":"9月19日（土）","items":[{"key":"x","date":"2026-09-19","label":"X（@entame_rosai）","account":"@entame_rosai","text":"通勤中のけがも労災の対象です。ただし、行き帰りの全部が覆われるわけではありません。合理的な経路を外れて寄り道している間は対象から外れます。私たちの側も、そこを広く書いてしまっていた時期がありました。\n（労災保険法7条・通勤災害）","chars":113,"lines":2,"hashtags":0,"limit":140,"status":"投稿済（09-19 夜・09-20 のタイムラインで確認。投稿から21時間）","url":"https://x.com/entame_rosai/status/2101149176054837349","images":[{"name":"x_image.png","path":"assets/2026-09-19/x_image/x_image.png"}],"alt":"【入れる順番】画像を添付した直後、本文を打つ前に入れる。\n本文を先に打つと必ず飛ぶ（08-29〜09-04 の6本が全部これで抜けた）。\nX は投稿後に代替テキストを追加できない。ここで入れないと直せない。\n\n--- 以下をコピーして貼る ---\n\n上半分は無人のホールの客席とパイプオルガンの写真。下半分は生成りの地の図解。小見出しは「フリーランスの労災保険 ｜ 通勤災害の範囲」、見出しは「行き帰りの、どこまでが対象か」。左のボックスは「対象になる」として「合理的な経路」「仕事のための行き帰り」。右のボックスは「対象から外れる」として「逸脱・中断の間」「経路を外れている時間」。下に「行き帰りのすべてが覆われるわけではありません。」「私たちの側も、そこを広く書いてしまっていた時期がありました。」。最下部に「芸能労災 @entame_rosai」と「出典：労災保険法7条（通勤災害）」。","check":{"errors":[],"warns":[]}}]}],"builtAt":"2026-09-28 06:56","endpoint":"https://script.google.com/macros/s/AKfycbxhxM75PszpPOX_HDJ4yuBmQSqu1b7CXq2sbCxlqTZ_TyF8hROH2MyKnYNU11avb8UQCA/exec"}</script>
 <script>
 (function(){
   var DATA = JSON.parse(document.getElementById('desk-data').textContent);
